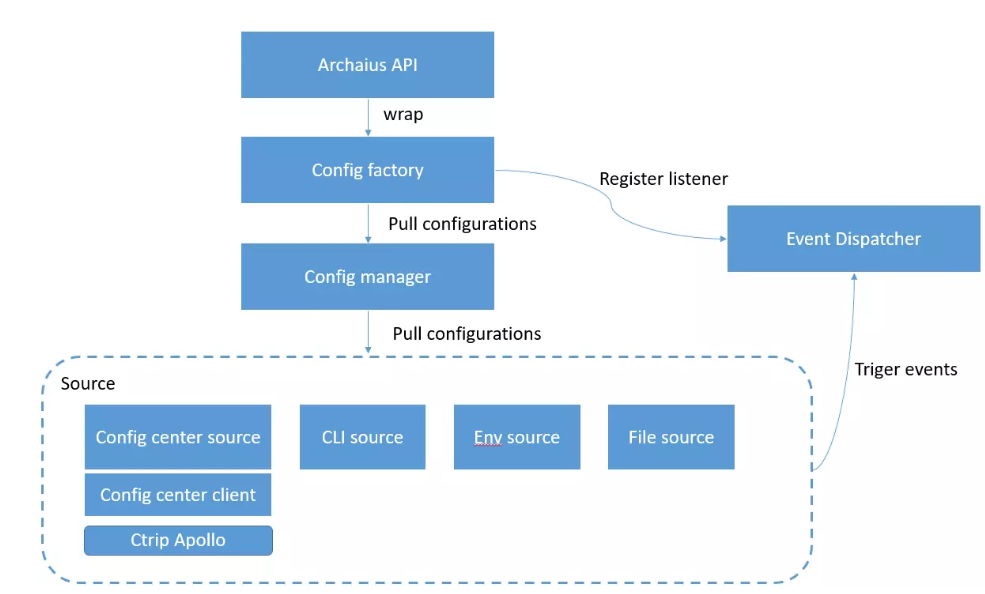
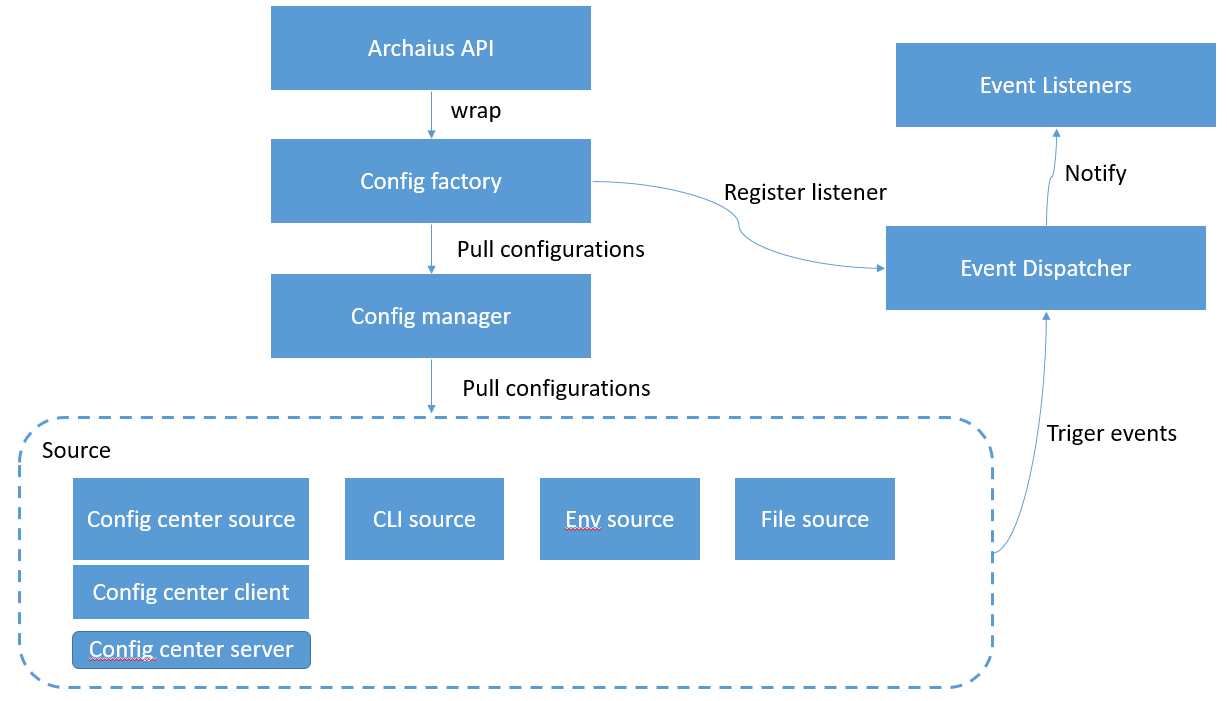
add doc, refactor API (#58)

diff --git a/options.go b/options.go
@@ -48,6 +48,7 @@ type Options struct {
 	ConfigClient     ccclient.ConfigClient
 	UseCLISource     bool
 	UseENVSource     bool
+	UseMemSource     bool
 	ExternalSource   core.ConfigSource
 }
 
@@ -61,7 +62,7 @@ func WithRequiredFiles(f []string) Option {
 	}
 }
 
-//WithOptionalFiles tell archaius to manage files, if not exist will not return error
+//WithOptionalFiles tell archaius to manage files, if not exist will NOT return error
 func WithOptionalFiles(f []string) Option {
 	return func(options *Options) {
 		options.OptionalFiles = f
@@ -69,6 +70,7 @@ func WithOptionalFiles(f []string) Option {
 }
 
 //WithDefaultFileHandler let user custom handler
+//you can decide how to convert file into kv pairs
 func WithDefaultFileHandler(handler filesource.FileHandler) Option {
 	return func(options *Options) {
 		options.FileHandler = handler
@@ -87,6 +89,7 @@ func WithConfigCenterSource(cci ConfigCenterInfo, ccc ccclient.ConfigClient) Opt
 
 //WithCommandLineSource enable cmd line source
 //archaius will read command line params as key value
+//TODO make option work
 func WithCommandLineSource() Option {
 	return func(options *Options) {
 		options.UseCLISource = true
@@ -95,23 +98,18 @@ func WithCommandLineSource() Option {
 
 //WithENVSource enable env source
 //archaius will read ENV as key value
+//TODO make option work
 func WithENVSource() Option {
 	return func(options *Options) {
 		options.UseENVSource = true
 	}
 }
 
-//WithExternalSource accept the information for initiating a External source
-func WithExternalSource(e core.ConfigSource) Option {
-	return func(options *Options) {
-		options.ExternalSource = e
-	}
-}
-
 //WithMemorySource accept the information for initiating a Memory source
-func WithMemorySource(e core.ConfigSource) Option {
+//TODO make option work
+func WithMemorySource() Option {
 	return func(options *Options) {
-		options.ExternalSource = e
+		options.UseMemSource = true
 	}
 }
 

diff --git a/README.md b/README.md
@@ -3,50 +3,55 @@
 
 ![](arch.png)
 
-This is a configuration management framework which helps to manage configurations
-in distributed system
+This is a light weight configuration management framework 
+which helps to manage configurations in distributed system
 
 The main objective of go archaius is to pull and sync the configuration from config-sources 
 
 ### Why use go-archaius
 it is hard to manage configurations in a distributed system. 
-archaius can integrate with them. 
-It  keeps watching configuration changes, and fire change event if value changes. 
+archaius is able to put all configuration is distributed system together and manage them.
+To make it simple to get a exact config you want in distributed system.
+It also keeps watching configuration changes, and fire change event if value changes. 
 so that you can easily implement a service 
 which has hot-reconfiguration features. 
-when you need to change configurations. you service has zero-down time.
+when you need to change configurations, your service has zero-down time.
 
-###Conceptions 
+### Conceptions 
 #### Sources
-Go-Archaius supports multiple sources for the configuration.
-You can specify multiple sources at a same time. go-archaius keeps all 
-the sources marked with their precedence,  in case if two sources have same config(key)
-then config with higher precedence will be selected.
+Go-archaius can manage multiple sources at the same time.
+Each source can holds same or different key value pairs. go-archaius keeps all 
+the sources marked with their precedence, and merge key value based on precedence. 
+in case if two sources have same key then key with higher precedence will be selected, 
+and you can use archaius API to get its value
 
 Here is the precedence list:
 
-0: Config Center Source - use config client to pull remote config server data into local
-0: Test Source - if can be used in UT or AT scenario 
+0: Config Center Source - use [config client](https://github.com/go-chassis/go-cc-client) to pull remote config server data into local
+
+0: Test Source - it can be used in UT or AT scenario 
+
 1: Memory Source - after process start, you can set key value in runtime.
+
 2: Command Line Source - read the command lines arguments, 
 while starting the process.
+
 3: Environment Variable Source - read configuration in Environment variable.
+
 4: Files Source - read files content and convert it into key values
 based on the FileHandler you define
 
-####Dimension
+#### Dimension
 It only works if you enable Config Center Source, as remote config server, 
 it could has a lot of same key but value is different. so we use dimension to 
 identify kv. by default you can not get other dimension kv, 
 but after you enable config center source, you can get kv in other dimension by archaius API
 
 #### Event management
-You can register event listener by key(exactly match or pattern match), 
-to watch value change. listener is able to be aware of any changes in any sources.
-based on
+You can register event listener by key(exactly match or pattern match) to watch value change.
 
 #### File Handler
-It works in File sources, it decide how to convert your file to key value pairs
+It works in File source, it decide how to convert your file to key value pairs. 
 check [FileHandler](./sources/file-source/file_handler.go), 
 currently we have 2 file handler implementation
 
@@ -55,6 +60,9 @@ developer usually only use API to interact with archaius, check [API](archaius.g
 
 ### Example: Manage local configurations 
 Complete [example](https://github.com/go-chassis/go-archaius/tree/master/examples/file)
+
+### Example: Manage key value change events
+Complete [example](https://github.com/go-chassis/go-archaius/tree/master/examples/event)
 
 ### Example: Manage runtime configurations by remote config server
 import a config client implementation
